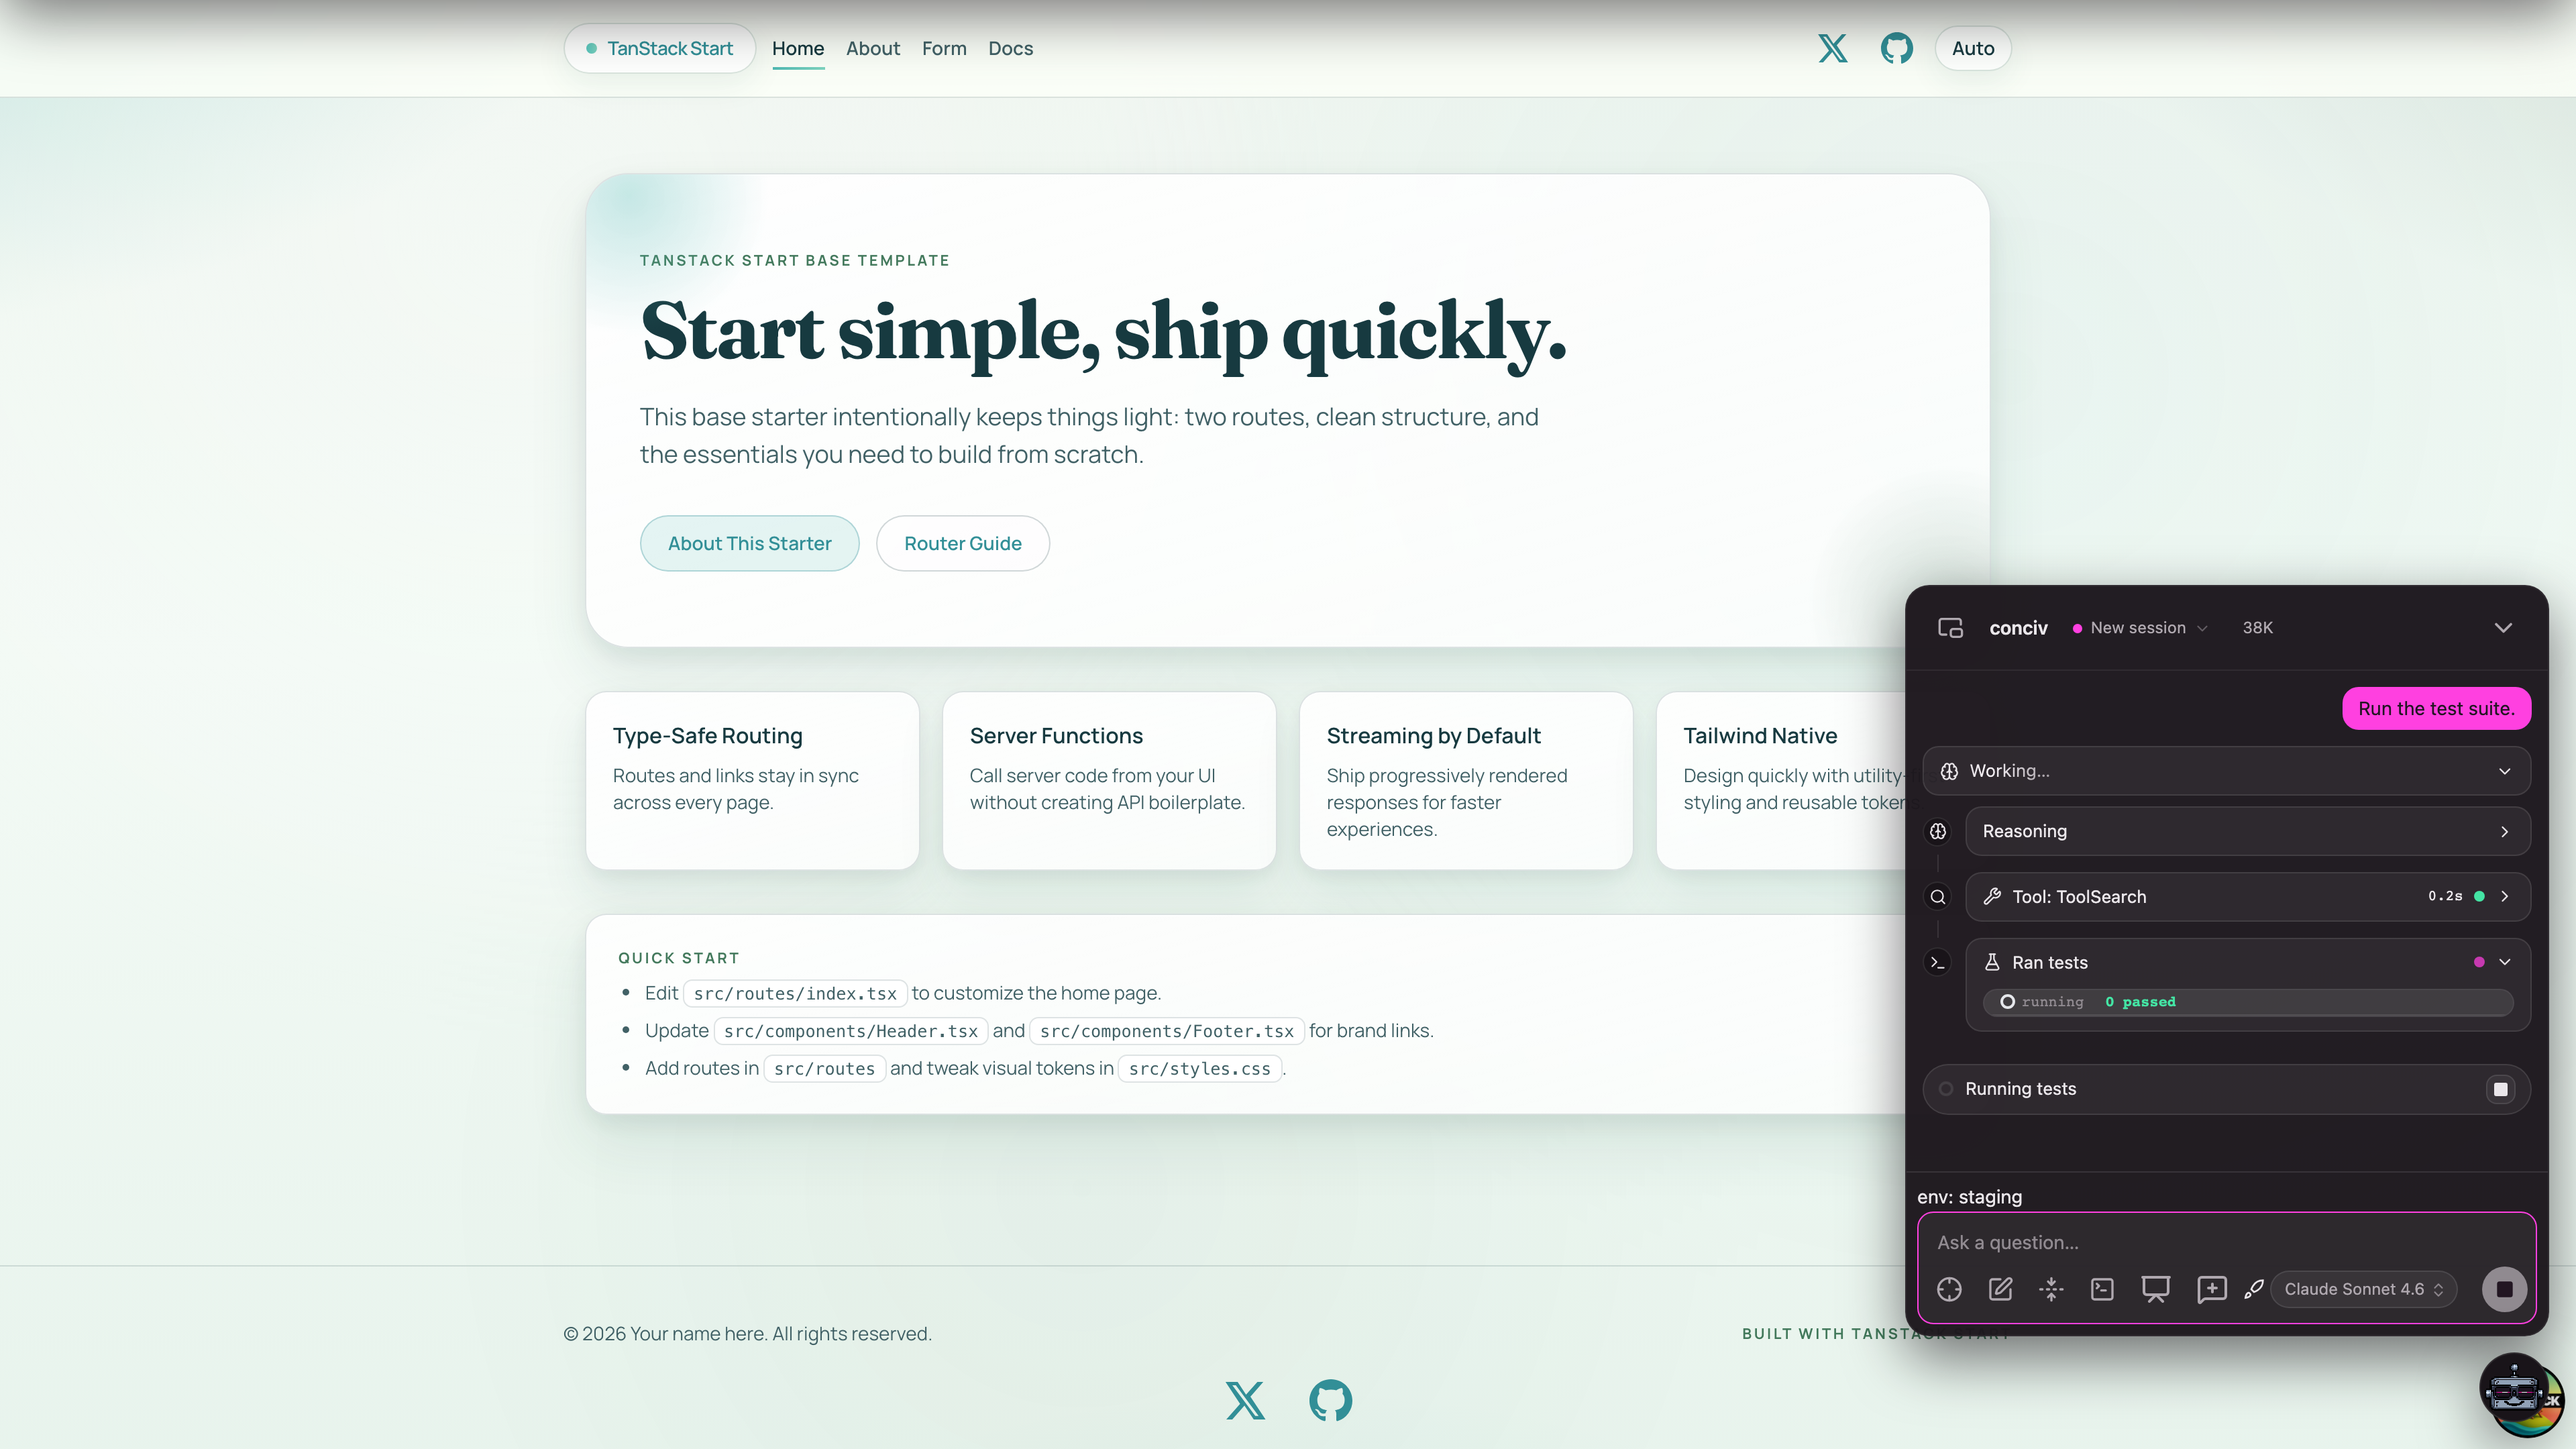
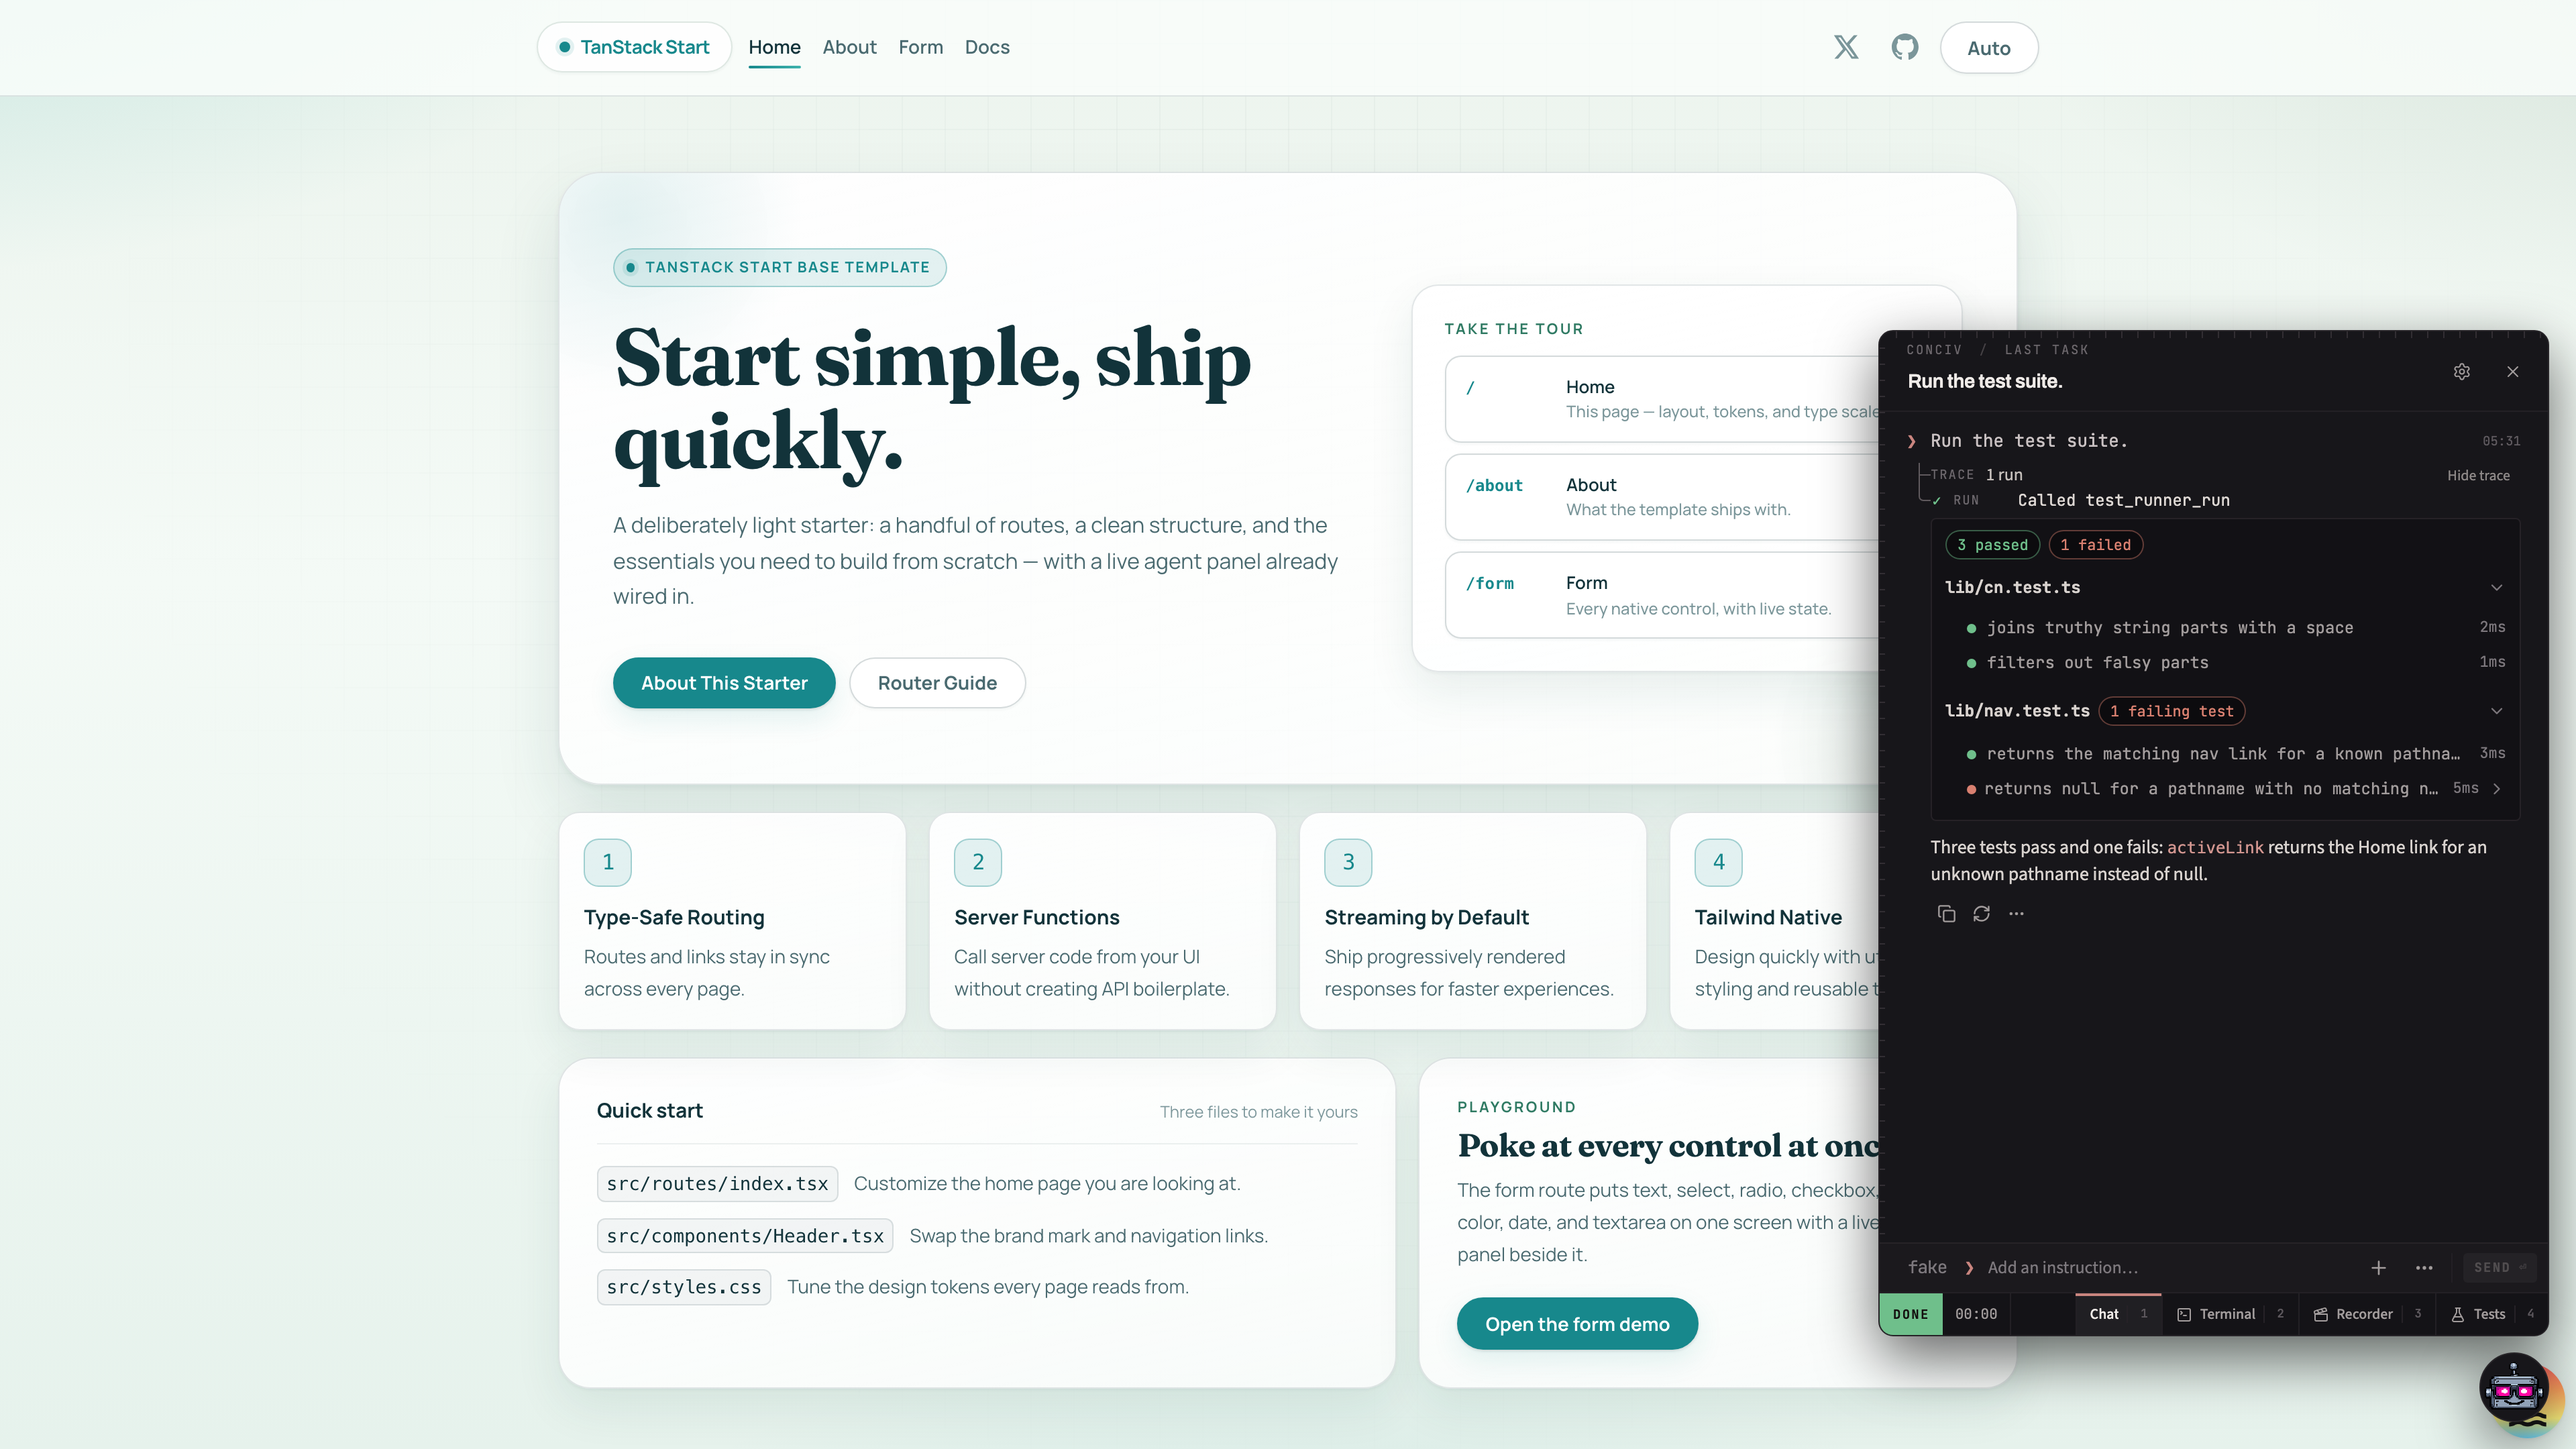
docs: the test runner is a plugin
The docs load @conciv/plugin-test-runner through plugins, pick the runner
with its runner option, and show the finished run as a card in the thread.
The test card screenshot is retaken from the plugin's card. The testRunner
config row is gone: the option no longer exists.

diff --git a/README.md b/README.md
@@ -99,7 +99,7 @@ export default defineConfig({
 Make sure the [Claude Code CLI](https://claude.ai/code) (`claude`) is on your `PATH`, start your
 dev server, and click the conciv button in the corner of your app.
 
-Override defaults via `conciv({harness, testRunner, widgetUrl, …})`. Other bundlers are one import
+Override defaults via `conciv({harness, plugins, widgetUrl, …})`. Other bundlers are one import
 away: `@conciv/it/plugin/webpack`, `/rspack`, `/rollup`, `/esbuild`, `/nextjs`.
 
 ## Extensions
@@ -128,10 +128,10 @@ Extensions are plain Solid JSX (compiled as a Solid zone even inside a React hos
 with a real test harness: [`@conciv/extension-testkit`](./packages/extension-testkit) mounts any
 extension in a real browser against a real spawned server.
 
-Two built-ins show what the contract can do:
+Two built-ins show what the contracts can do, the whiteboard extension and the test-runner plugin:
 
 - 🎨 &nbsp;[**Whiteboard**](./packages/extensions/whiteboard): a shared Excalidraw canvas over your dev app. You sketch, the AI draws back (real editable elements, mermaid included), with source-anchored comments and pins on a self-hosted libSQL store (TanStack DB).
-- 🧪 &nbsp;[**Test runner**](./packages/extensions/test-runner): runner-agnostic test execution (Vitest and Playwright) with live result cards in the thread.
+- 🧪 &nbsp;[**Test runner**](./packages/plugins/test-runner): a plugin that runs your tests (Vitest and Playwright). The Tests tab streams live rows, and a card shows the finished run in the thread.
 
 ## Supported tools
 
@@ -145,25 +145,25 @@ Two built-ins show what the contract can do:
 
 Install these. Everything else on npm under `@conciv/*` is internal and comes in automatically:
 
-| Package                                                     | What it is                                                                                                 |
-| ----------------------------------------------------------- | ---------------------------------------------------------------------------------------------------------- |
-| [`@conciv/it`](./packages/it)                               | **The one you install.** Thin umbrella: `@conciv/it/plugin/vite` (+ webpack/rspack/rollup/esbuild/nextjs). |
-| [`@conciv/extension`](./packages/extension)                 | The extension authoring contract: `defineExtension`/`defineTool` + typed `useSlot`/`useContext` hooks.     |
-| [`@conciv/extension-testkit`](./packages/extension-testkit) | Mounts any extension in a real browser against a real spawned server, through its real contract.           |
-| [`@conciv/try`](./packages/try)                             | `npx @conciv/try --token <t>`: try conciv live on conciv.dev with the agent already on your machine.       |
+| Package                                                        | What it is                                                                                                 |
+| -------------------------------------------------------------- | ---------------------------------------------------------------------------------------------------------- |
+| [`@conciv/it`](./packages/it)                                  | **The one you install.** Thin umbrella: `@conciv/it/plugin/vite` (+ webpack/rspack/rollup/esbuild/nextjs). |
+| [`@conciv/extension`](./packages/extension)                    | The extension authoring contract: `defineExtension`/`defineTool` + typed `useSlot`/`useContext` hooks.     |
+| [`@conciv/extension-testkit`](./packages/extension-testkit)    | Mounts any extension in a real browser against a real spawned server, through its real contract.           |
+| [`@conciv/plugin-test-runner`](./packages/plugins/test-runner) | The test-runner plugin: `plugins: [['@conciv/plugin-test-runner', {runner: 'vitest'}]]`.                   |
+| [`@conciv/try`](./packages/try)                                | `npx @conciv/try --token <t>`: try conciv live on conciv.dev with the agent already on your machine.       |
 
 Under the hood (installed automatically by `@conciv/it`):
 
-| Package                                                              | What it is                                                                                                               |
-| -------------------------------------------------------------------- | ------------------------------------------------------------------------------------------------------------------------ |
-| [`@conciv/protocol`](./packages/protocol)                            | Shared wire types + `define*` factories (chat, generative UI, test, page, harness). Zero-runtime.                        |
-| [`@conciv/core`](./packages/core)                                    | The framework-free hono engine: every `/api/*` route, session, uiBus, harness + test registries.                         |
-| [`@conciv/harness`](./packages/harness)                              | Harness adapters behind a capability interface: Claude + Codex, plus Gemini/opencode/Pi stubs.                           |
-| [`@conciv/unplugin`](./packages/unplugin)                            | The dev agent as an unplugin: `vite` (full) + webpack/rspack/rollup/esbuild. Boots core + injects the widget.            |
-| [`@conciv/embed`](./packages/embed)                                  | The browser half: mounts the conciv Solid app into an open Shadow DOM, with the chat UI, cards, and page-control driver. |
-| [`@conciv/cli`](./packages/cli)                                      | The `conciv` CLI the agent calls from Bash: `tools server / page / test / open`.                                         |
-| [`@conciv/extension-whiteboard`](./packages/extensions/whiteboard)   | Built-in: the shared Excalidraw canvas with AI drawing and source-anchored comments.                                     |
-| [`@conciv/extension-test-runner`](./packages/extensions/test-runner) | Built-in: runner-agnostic test execution with live result cards.                                                         |
+| Package                                                            | What it is                                                                                                               |
+| ------------------------------------------------------------------ | ------------------------------------------------------------------------------------------------------------------------ |
+| [`@conciv/protocol`](./packages/protocol)                          | Shared wire types + `define*` factories (chat, generative UI, test, page, harness). Zero-runtime.                        |
+| [`@conciv/core`](./packages/core)                                  | The framework-free hono engine: every `/api/*` route, session, uiBus, harness + test registries.                         |
+| [`@conciv/harness`](./packages/harness)                            | Harness adapters behind a capability interface: Claude + Codex, plus Gemini/opencode/Pi stubs.                           |
+| [`@conciv/unplugin`](./packages/unplugin)                          | The dev agent as an unplugin: `vite` (full) + webpack/rspack/rollup/esbuild. Boots core + injects the widget.            |
+| [`@conciv/embed`](./packages/embed)                                | The browser half: mounts the conciv Solid app into an open Shadow DOM, with the chat UI, cards, and page-control driver. |
+| [`@conciv/cli`](./packages/cli)                                    | The `conciv` CLI the agent calls from Bash: `tools server / page / test / open`.                                         |
+| [`@conciv/extension-whiteboard`](./packages/extensions/whiteboard) | Built-in: the shared Excalidraw canvas with AI drawing and source-anchored comments.                                     |
 
 ## Documentation
 

diff --git a/packages/extensions/README.md b/packages/extensions/README.md
@@ -2,7 +2,7 @@
 
 ## Overview
 
-Each subdirectory is a separate pnpm package with its own `package.json`, build (tsdown and/or vite) and test scripts. The packages are design (visual diff against a target image), ios (iOS simulator tools and the WKWebView bridge), page (the `page_*` DOM and React tools), recorder (rrweb recording and replay), tanstack (TanStack Router and Query inspection), terminal (harness TUI over a server pty), test-runner (runner-agnostic test adapters), try-it (private conciv.dev connect demo) and whiteboard (shared Excalidraw canvas with source-anchored comments). Apart from try-it, which is private, the package descriptions say they are installed through `@conciv/it` and not directly.
+Each subdirectory is a separate pnpm package with its own `package.json`, build (tsdown and/or vite) and test scripts. The packages are design (visual diff against a target image), ios (iOS simulator tools and the WKWebView bridge), page (the `page_*` DOM and React tools), recorder (rrweb recording and replay), tanstack (TanStack Router and Query inspection), terminal (harness TUI over a server pty), try-it (private conciv.dev connect demo) and whiteboard (shared Excalidraw canvas with source-anchored comments). Apart from try-it, which is private, the package descriptions say they are installed through `@conciv/it` and not directly.
 
 ## Subdirectories & Boundaries
 
@@ -13,5 +13,4 @@ Each subdirectory is a separate pnpm package with its own `package.json`, build 
 - [whiteboard](./whiteboard/README.md): Package root of @conciv/extension-whiteboard: build, test, lint and drizzle configs plus package.json for an Excalidraw whiteboard extension with a server entry (src/server.ts) and a browser client entry (src/client.tsx).
 - [terminal](./terminal/README.md): Package root for `@conciv/extension-terminal`, a built-in extension that shows a live harness TUI over a server-side pty.
 - [ios](./ios/README.md): Package root for `@conciv/extension-ios` (v0.0.21). It holds the package manifest and the tsdown, vite, vitest and tsc build and test configs.
-- [test-runner](./test-runner/README.md): Package root of `@conciv/extension-test-runner`: the built-in test-runner extension for @conciv/it. Its configs build a server/runner ESM bundle with tsdown, a Solid client bundle with vite and declarations with tsc, and they set up node IT and browser test projects in vitest.
 - [recorder](./recorder/README.md): Package root of @conciv/extension-recorder, the built-in recorder extension. It records the host page with rrweb, keeps a server-side sliding window of events, gives agents tools that return an action log, and shows a replay panel.
